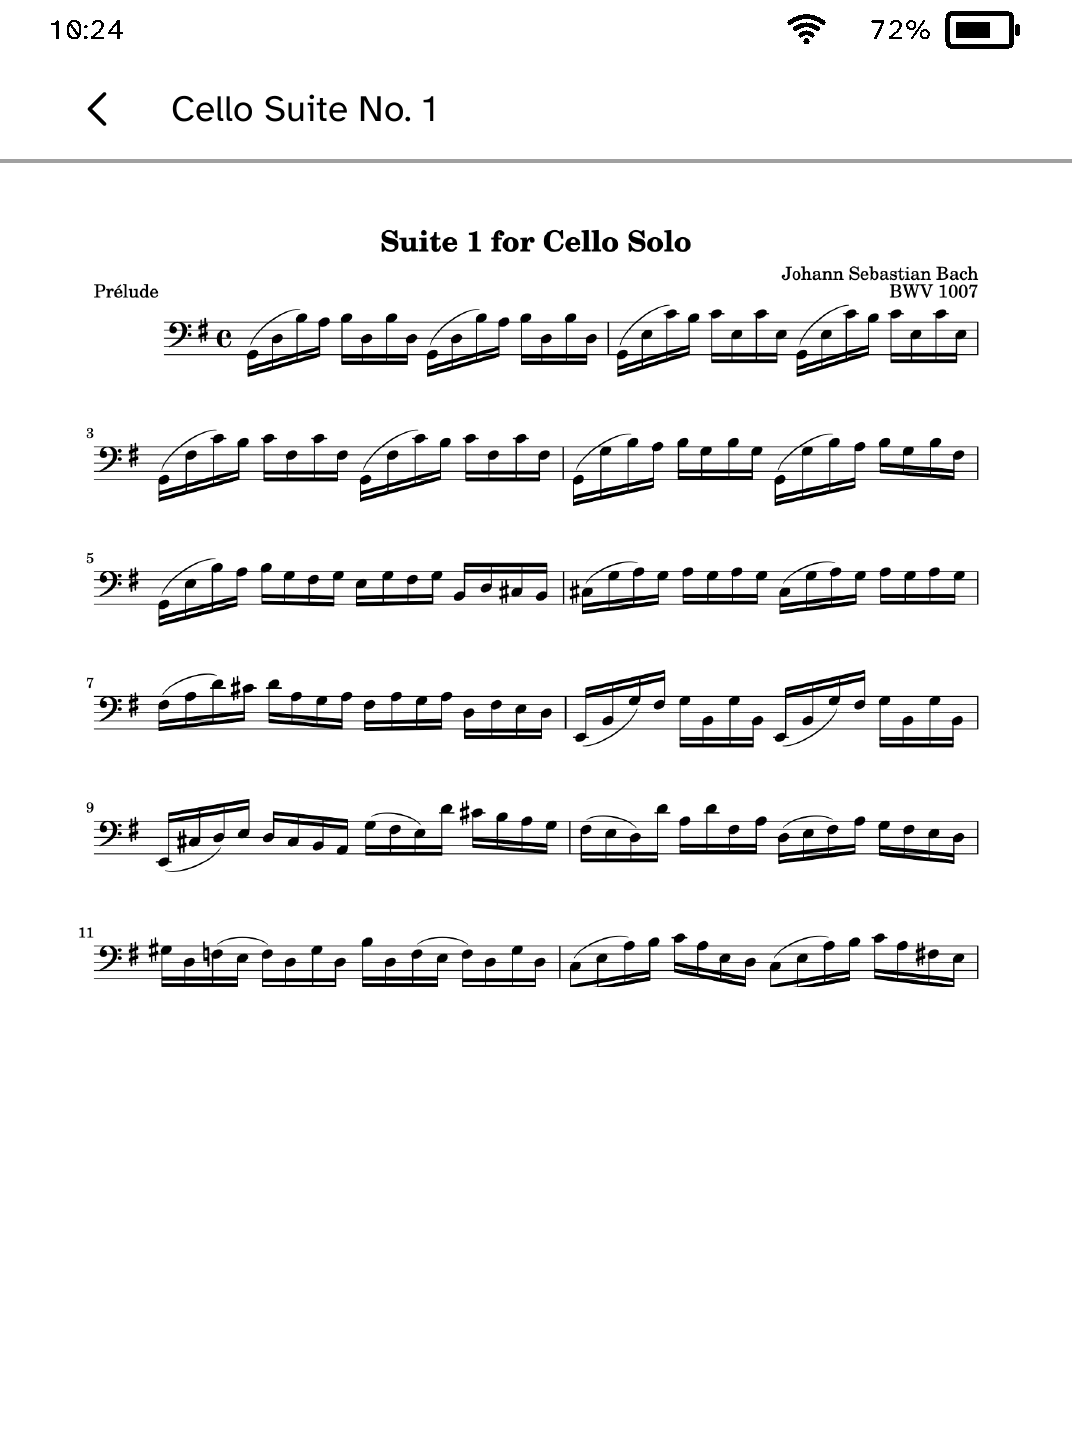
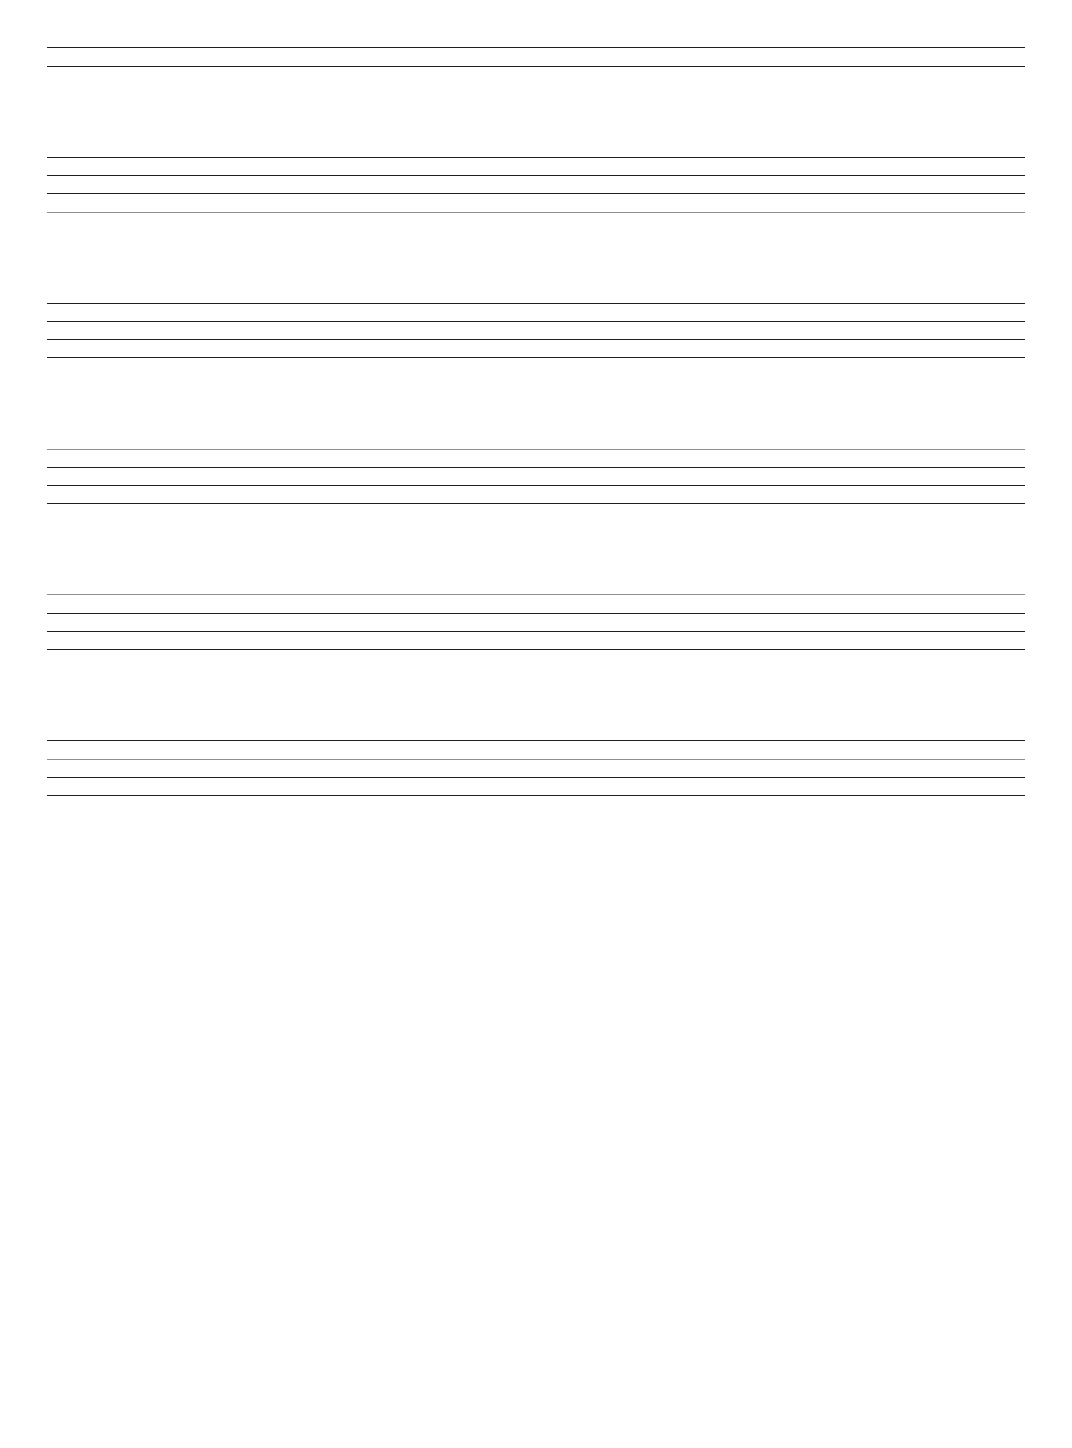
Give the score on Music Stand the panel

diff --git a/docs/apps/musicstand/index.html b/docs/apps/musicstand/index.html
@@ -21,7 +21,7 @@
 <meta name="twitter:description" content="A Kobo score reader with stable stand mode, setlists, and two-stage half-page turns. Install it on a supported Kobo e-reader with Cobalt.">
 <meta name="twitter:image" content="https://bandarlabs.github.io/Cobalt/media/site/apps/musicstand.png">
 <meta name="twitter:image:alt" content="Music Stand showing the opening of the Prelude from Bach's Cello Suite No. 1 at reading size.">
-<meta http-equiv="Content-Security-Policy" content="default-src 'none'; script-src 'self' 'sha256-fgpAUojGNJGC/h81va0P02efbKxCggTK7TNyqEmQzQs='; style-src 'self'; img-src 'self'; connect-src https://cobalt-install-relay.anandabhishek.workers.dev; base-uri 'none'; form-action 'self'">
+<meta http-equiv="Content-Security-Policy" content="default-src 'none'; script-src 'self' 'sha256-ETSDb9fGLjPZCDVPvQXMo33fMi8YNrFJ+0rlCTeIBC0='; style-src 'self'; img-src 'self'; connect-src https://cobalt-install-relay.anandabhishek.workers.dev; base-uri 'none'; form-action 'self'">
 <script type="application/ld+json">{
   "@context": "https://schema.org",
   "@graph": [
@@ -40,7 +40,7 @@
       "applicationSuite": "Cobalt",
       "applicationCategory": "ReferenceApplication",
       "operatingSystem": "Cobalt on supported Kobo e-readers",
-      "softwareVersion": "0.1.12",
+      "softwareVersion": "0.1.13",
       "isAccessibleForFree": true,
       "offers": {
         "@type": "Offer",
@@ -99,7 +99,7 @@
       <h1>Music Stand</h1>
       <p class="summary">A Kobo score reader with stable stand mode, setlists, and two-stage half-page turns.</p>
       <dl class="facts">
-        <div><dt>Version</dt><dd>0.1.12</dd></div>
+        <div><dt>Version</dt><dd>0.1.13</dd></div>
         <div><dt>Permissions</dt><dd>keep-awake</dd></div>
         <div><dt>Requires</dt><dd>Cobalt 0.3.32</dd></div>
       </dl>
@@ -119,8 +119,8 @@
     </div>
   </section>
   <section class="whats-new">
-    <h2>New in 0.1.12</h2>
-    <p>Commands to run on your computer are set on a grey panel in a fixed-width face and break only at spaces. Headings are a step smaller and hints a step larger.</p>
+    <h2>New in 0.1.13</h2>
+    <p>The score has the panel: no clock or title over the staves. Touch the top edge for the title, or the middle of the page for the menu.</p>
   </section>
   <section class="panel prerequisites" aria-labelledby="prerequisites-title">
     <p class="eyebrow">App setup</p>

diff --git a/apps/musicstand/src/main.rs b/apps/musicstand/src/main.rs
@@ -416,6 +416,9 @@ impl Stand {
         };
         let state = self.state_of(&score.id);
         let mut screen = match self.page {
+            // Inside the side margins rather than to the bezel: with Staff
+            // width on, the margins are cropped off the page and the staves
+            // would otherwise run into the frame of the reader.
             Some(picture) => screen.unframed_picture(picture, 500),
             None => screen.activity("Turning the page", None),
         };
@@ -464,7 +467,13 @@ impl Stand {
                     .button(LIBRARY, "Library")
             });
         }
-        screen.build().with_own_back(true)
+        // No clock or title over the staves. The title comes back with a
+        // touch at the top edge, and the middle opens the menu.
+        screen
+            .build()
+            .with_own_back(true)
+            .with_reading(true)
+            .with_auto_hidden_top_bar(true)
     }
 
     fn setlists(&self, context: &Context) -> (Screen, usize) {
@@ -1241,6 +1250,8 @@ mod tests {
             ..Stand::default()
         };
         let screen = stand.stand();
+        // The page has the panel: no clock band, and no bar until asked for.
+        assert!(screen.reading && screen.auto_hide_top_bar);
         let layout = screen.layout_with(&CLARA_BW_METRICS, &Chrome::default());
         assert_eq!(
             layout.page_turns.declared().expect("page turns").next,
